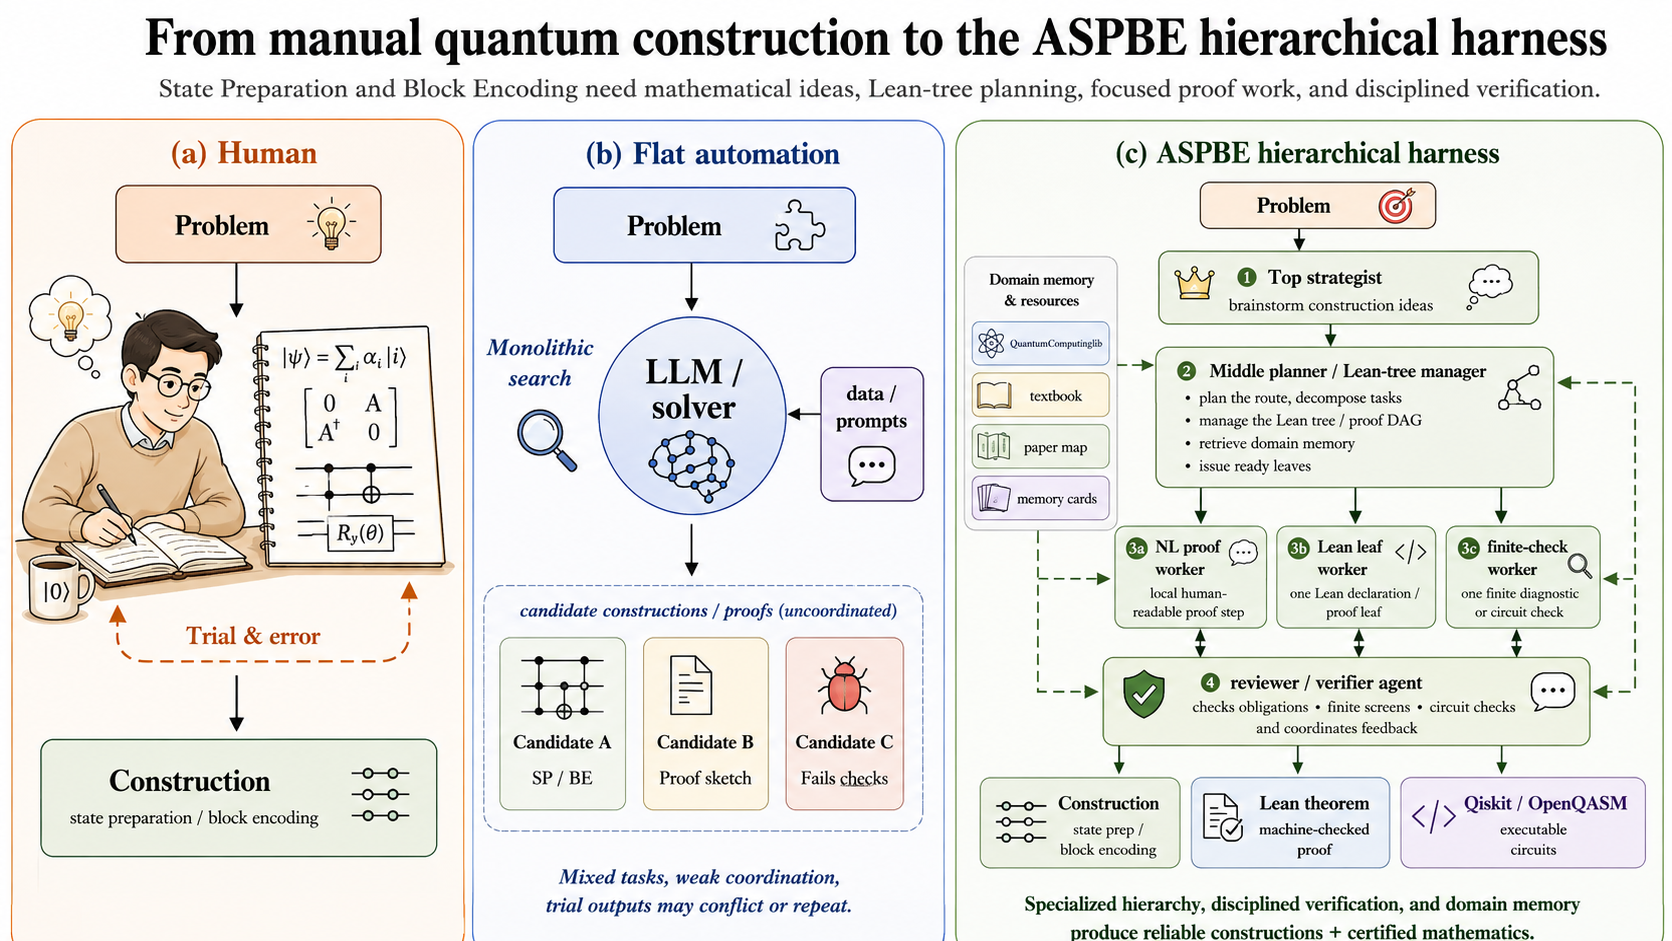
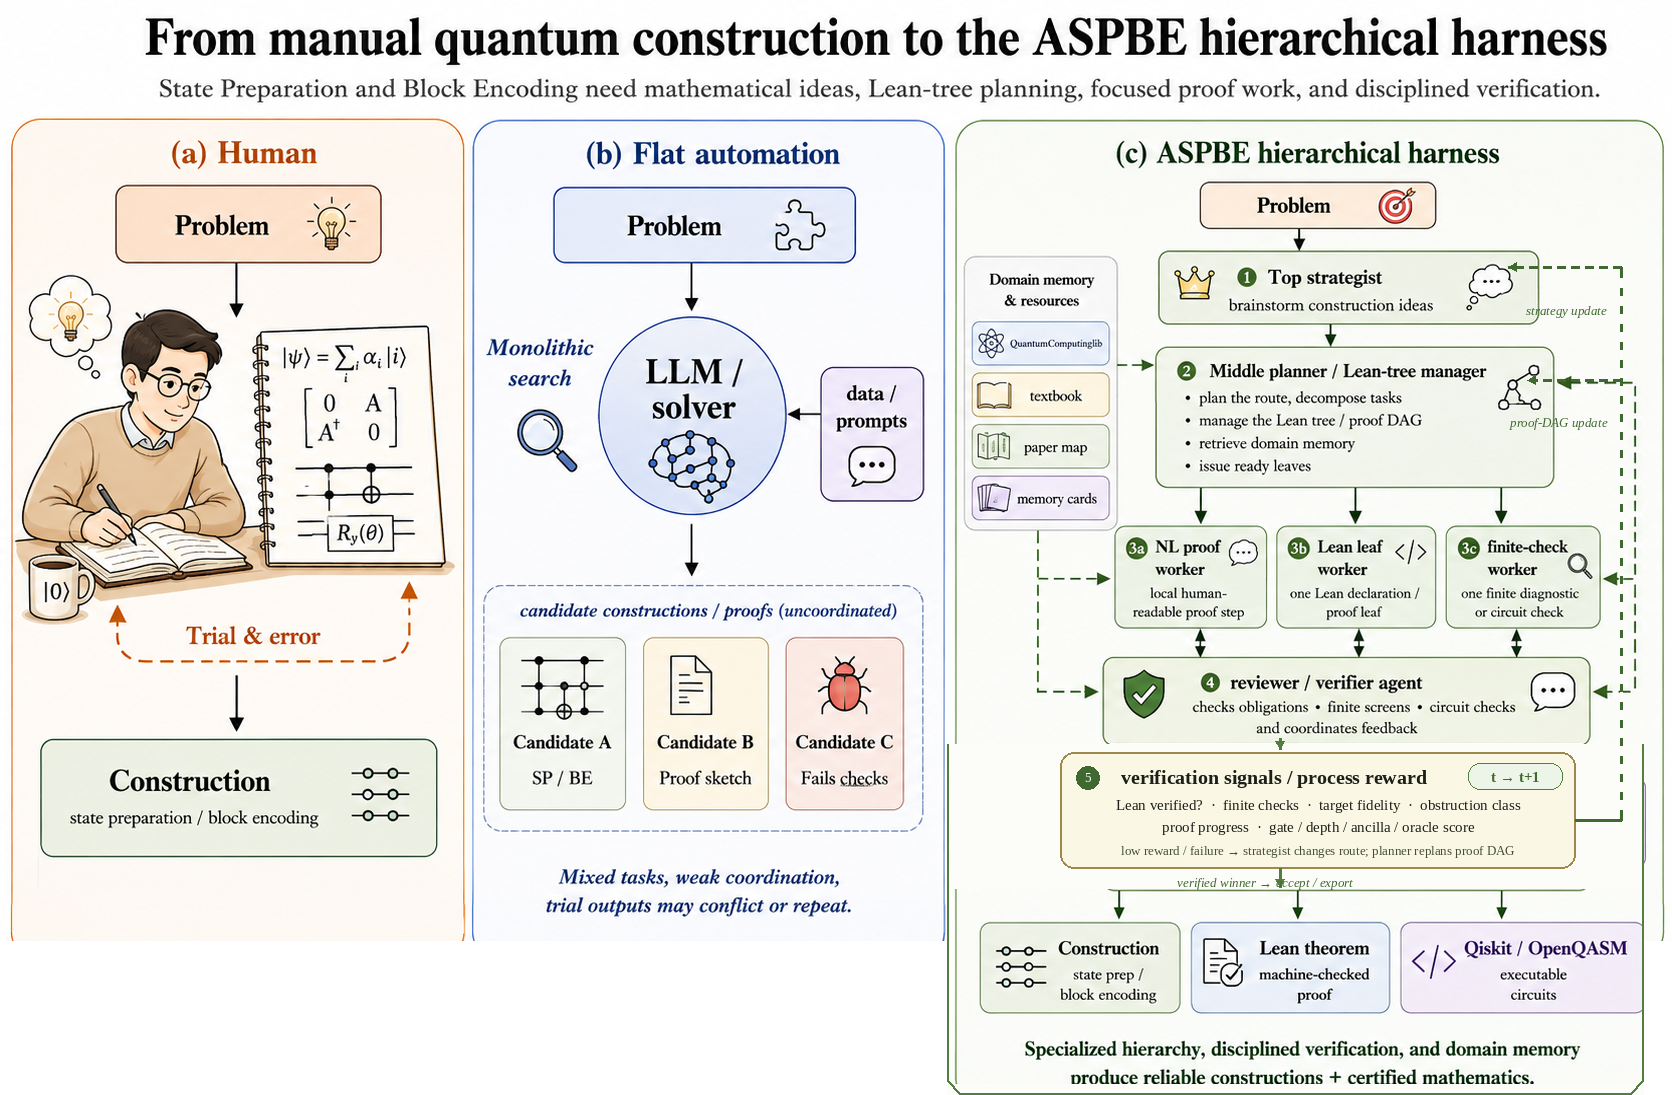
Show verifier-guided self-evolution in ASPBE harness

Changed region(s): [[0.0, 0.0, 0.9952, 1.0], [0.311, 0.9245, 0.4976, 0.9862], [0.0, 0.1233, 0.0311, 0.1541]]

diff --git a/README.md b/README.md
@@ -64,6 +64,8 @@ The hierarchy has explicit role boundaries:
 - **Lower workers:** solve one local obligation at a time — one human-readable proof step, one Lean declaration, or one finite diagnostic — rather than redesigning the whole construction.
 - **Reviewer / verifier:** checks assumptions, evidence class, finite screens, target fidelity, and promotion; typed failures are routed back instead of being retried blindly.
 
+Verification is **not** the end of the harness. Lean pass/fail, proof progress, obstruction type, finite checks, target fidelity, and the circuit resource tuple form a process-reward signal. A failed or low-value candidate sends typed feedback to the **Middle planner** to replan the proof DAG and, when the construction itself is the bottleneck, to the **Upper strategist** to change the construction family or authorized policy rung. The next iteration therefore changes either the mathematical route or its proof decomposition; a Lean-verified candidate is exported only after it satisfies the target and promotion criteria.
+
 **QuantumComputinglib, the textbook, source/paper maps, and certified memory cards act as domain preparation for these agents.** The point is not simply to use more agents, but to give specialized agents a structured map of the field and prevent different levels from interfering with each other's jobs.
 
 ---
